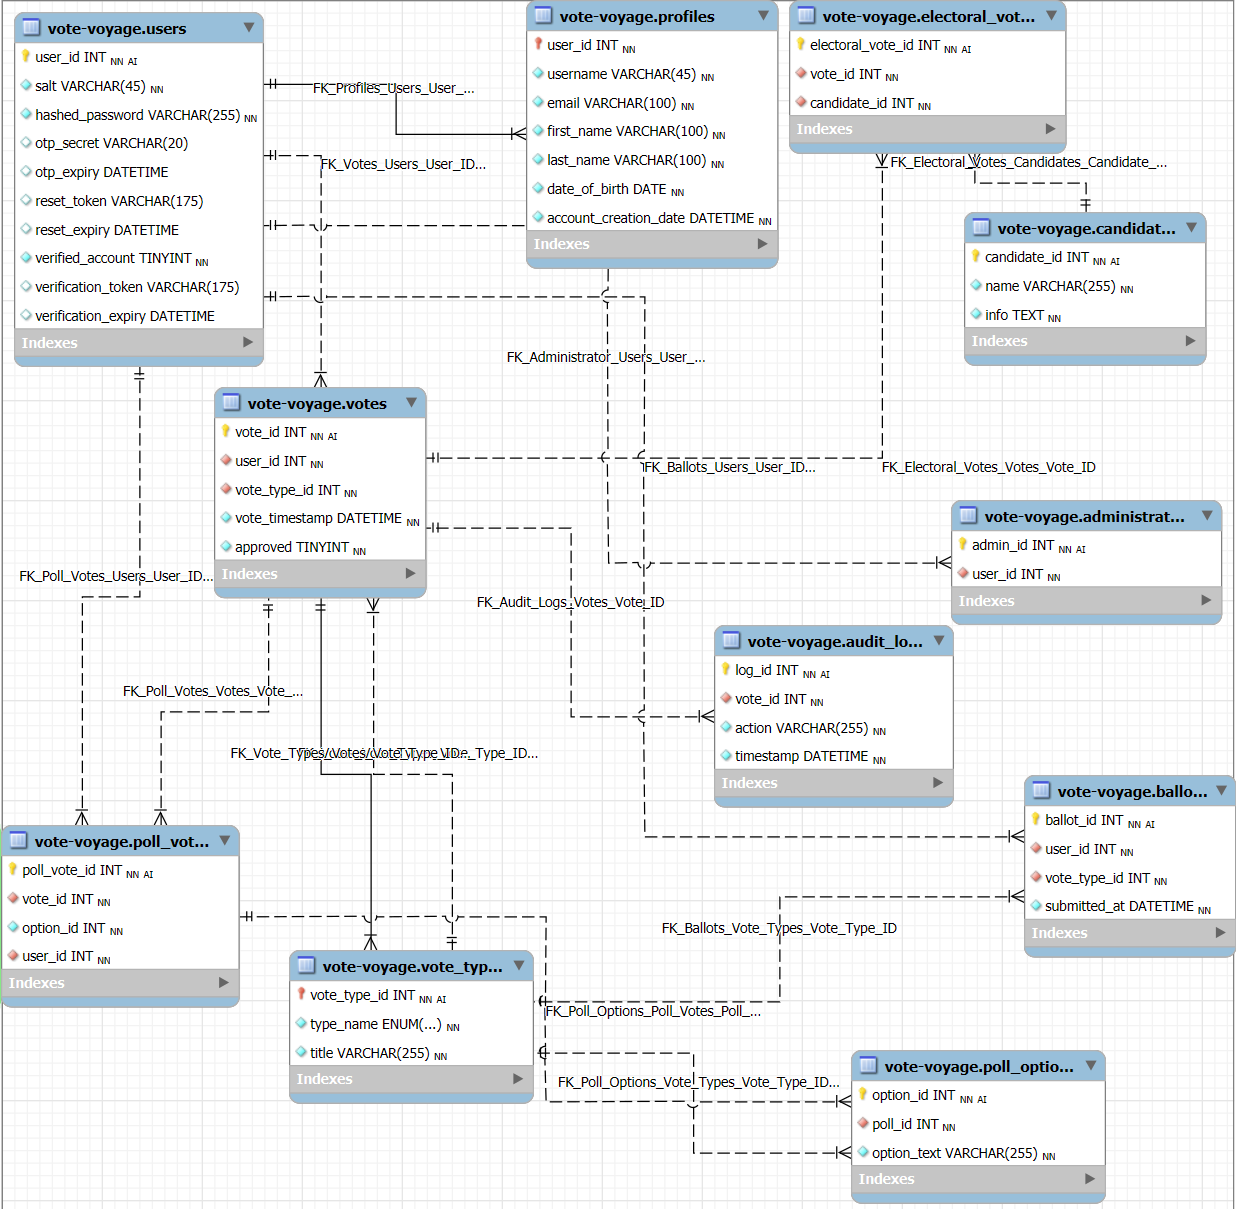
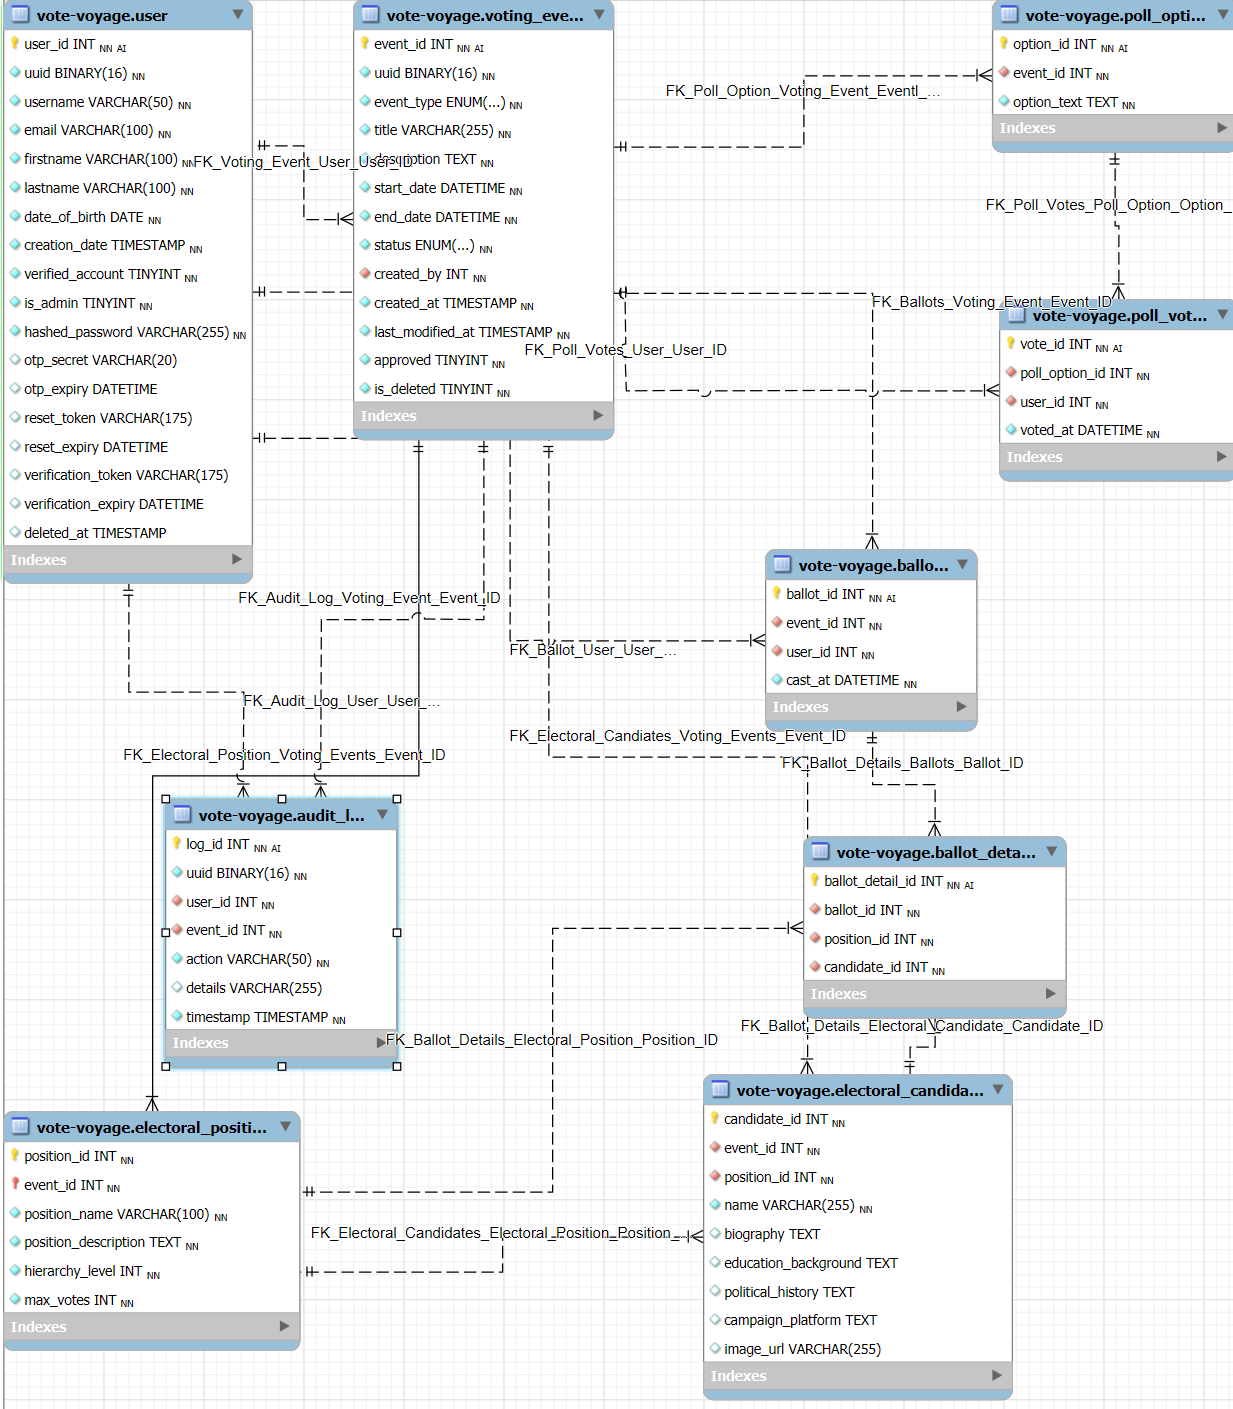
update database documentation to reflect table name changes and new structure

diff --git a/OnlineVotingDocu.md b/OnlineVotingDocu.md
@@ -218,9 +218,7 @@ The online voting system's architecture must be enough to handle high volumes of
 
 ### Database Tables
 
-**Poll Votes**
-
-**Users Table**
+**User Table**
 
 | Column Name             | Data Type      | Constraints                                 |
 | ----------------------- | -------------- | ------------------------------------------- |
@@ -311,21 +309,96 @@ The online voting system's architecture must be enough to handle high volumes of
 
 ---
 
-**Votes Table**
+**Ballots Table**
 
-| Column Name      | Data Type  | Constraints                                   |
-| ---------------- | ---------- | --------------------------------------------- |
-| `vote_id`        | `INT`      | `NOT NULL`, `AUTO_INCREMENT`, `PRIMARY KEY`   |
-| `user_id`        | `INT`      | `NOT NULL`, `KEY user_id`, `FOREIGN KEY`      |
-| `vote_type_id`   | `INT`      | `NOT NULL`, `KEY vote_type_id`, `FOREIGN KEY` |
-| `vote_timestamp` | `DATETIME` | `NOT NULL DEFAULT CURRENT_TIMESTAMP`          |
-| `approved`       | `tinyint`  | `NOT NULL DEFAULT '0'`                        |
+| Column Name | Data Type  | Constraints                                 |
+| ----------- | ---------- | ------------------------------------------- |
+| `ballot_id` | `INT`      | `NOT NULL`, `AUTO_INCREMENT`, `PRIMARY KEY` |
+| `event_id`  | `INT`      | `NOT NULL`, `KEY event_id`, `FOREIGN KEY`   |
+| `user_id`   | `INT`      | `NOT NULL`, `KEY user_id`, `FOREIGN KEY`    |
+| `cast_at`   | `DATETIME` | `NOT NULL DEFAULT CURRENT_TIMESTAMP`        |
 
-| **Indexes**                        | **Description**                      |                                                                                            |
-| ---------------------------------- | ------------------------------------ | ------------------------------------------------------------------------------------------ |
-| `PRIMARY`                          | (`vote_id`)                          |                                                                                            |
-| `FK_Votes_Users_User_ID`           | (`FK_Votes_Users_User_ID`)           | `FOREIGN KEY` REFERENCES `users` (`user_id`) ON DELETE CASCADE ON UPDATE CASCADE           |
-| `FK_Votes_Vote_Types_Vote_Type_ID` | (`FK_Votes_Vote_Types_Vote_Type_ID`) | `FOREIGN KEY` REFERENCES `vote_types` (`vote_type_id`) ON DELETE CASCADE ON UPDATE CASCADE |
+| **Indexes**                            | **Description** |                                                                                          |
+| -------------------------------------- | --------------- | ---------------------------------------------------------------------------------------- |
+| `PRIMARY`                              | (`ballot_id`)   |                                                                                          |
+| `FK_Ballots_Voting_Event_Event_ID_idx` | (`event_id`)    | `FOREIGN KEY` REFERENCES `voting_event` (`event_id`) ON DELETE CASCADE ON UPDATE CASCADE |
+| `FK_Ballot_User_User_ID_idx`           | (`user_id`)     | `FOREIGN KEY` REFERENCES `user` (`user_id`) ON DELETE CASCADE ON UPDATE CASCADE          |
+
+---
+
+**Electoral Position Table**
+
+| Column Name            | Data Type      | Constraints                              |
+| ---------------------- | -------------- | ---------------------------------------- |
+| `position_id`          | `INT`          | `NOT NULL`, `PRIMARY KEY`                |
+| `event_id`             | `INT`          | `NOT NULL`, `PRIMARY KEY`, `FOREIGN KEY` |
+| `position_name`        | `VARCHAR(100)` | `NOT NULL`, `UNIQUE`                     |
+| `position_description` | `TEXT`         | `NOT NULL`                               |
+| `hierarchy_level`      | `INT`          | `NOT NULL`                               |
+| `max_votes`            | `INT`          | `NOT NULL DEFAULT '1'`                   |
+
+| **Indexes**                                        | **Description**             |                                                                                          |
+| -------------------------------------------------- | --------------------------- | ---------------------------------------------------------------------------------------- |
+| `PRIMARY`                                          | (`position_id`, `event_id`) |                                                                                          |
+| `position_name_UNIQUE`                             | (`position_name`)           | `UNIQUE`                                                                                 |
+| `FK_Electoral_Position_Voting_Events_Event_ID_idx` | (`event_id`)                | `FOREIGN KEY` REFERENCES `voting_event` (`event_id`) ON DELETE CASCADE ON UPDATE CASCADE |
+
+---
+
+**Electoral Candidate Table**
+
+| Column Name            | Data Type      | Constraints               |
+| ---------------------- | -------------- | ------------------------- |
+| `candidate_id`         | `INT`          | `NOT NULL`, `PRIMARY KEY` |
+| `event_id`             | `INT`          | `NOT NULL`, `FOREIGN KEY` |
+| `position_id`          | `INT`          | `NOT NULL`, `FOREIGN KEY` |
+| `name`                 | `VARCHAR(255)` | `NOT NULL`                |
+| `biography`            | `TEXT`         |                           |
+| `education_background` | `TEXT`         |                           |
+| `political_history`    | `TEXT`         |                           |
+| `campaign_platform`    | `TEXT`         |                           |
+| `image_url`            | `VARCHAR(255)` | `DEFAULT NULL`            |
+
+| **Indexes**                                                  | **Description**  |                                                                                 |
+| ------------------------------------------------------------ | ---------------- | ------------------------------------------------------------------------------- |
+| `PRIMARY`                                                    | (`candidate_id`) |                                                                                 |
+| `FK_Electoral_Candiates_Voting_Events_Event_ID_idx`          | (`event_id`)     | `FOREIGN KEY` REFERENCES `voting_event` (`event_id`) ON UPDATE CASCADE          |
+| `FK_Electoral_Candidates_Electoral_Position_Position_ID_idx` | (`position_id`)  | `FOREIGN KEY` REFERENCES `electoral_position` (`position_id`) ON UPDATE CASCADE |
+
+---
+
+**Ballot Details Table**
+
+| Column Name        | Data Type | Constraints                                 |
+| ------------------ | --------- | ------------------------------------------- |
+| `ballot_detail_id` | `INT`     | `NOT NULL`, `AUTO_INCREMENT`, `PRIMARY KEY` |
+| `ballot_id`        | `INT`     | `NOT NULL`, `FOREIGN KEY`                   |
+| `position_id`      | `INT`     | `NOT NULL`, `FOREIGN KEY`                   |
+| `candidate_id`     | `INT`     | `NOT NULL`, `FOREIGN KEY`                   |
+
+| **Indexes**                                              | **Description**      |                                                                                                     |
+| -------------------------------------------------------- | -------------------- | --------------------------------------------------------------------------------------------------- |
+| `PRIMARY`                                                | (`ballot_detail_id`) |                                                                                                     |
+| `FK_Ballot_Details_Ballots_Ballot_ID_idx`                | (`ballot_id`)        | `FOREIGN KEY` REFERENCES `ballots` (`ballot_id`) ON DELETE CASCADE ON UPDATE CASCADE                |
+| `FK_Ballot_Details_Electoral_Position_Position_ID_idx`   | (`position_id`)      | `FOREIGN KEY` REFERENCES `electoral_position` (`position_id`) ON DELETE CASCADE ON UPDATE CASCADE   |
+| `FK_Ballot_Details_Electoral_Candidate_Candidate_ID_idx` | (`candidate_id`)     | `FOREIGN KEY` REFERENCES `electoral_candidate` (`candidate_id`) ON DELETE CASCADE ON UPDATE CASCADE |
+
+---
+
+**Poll Votes Table**
+
+| Column Name      | Data Type  | Constraints                                 |
+| ---------------- | ---------- | ------------------------------------------- |
+| `vote_id`        | `INT`      | `NOT NULL`, `AUTO_INCREMENT`, `PRIMARY KEY` |
+| `poll_option_id` | `INT`      | `NOT NULL`, `FOREIGN KEY`                   |
+| `user_id`        | `INT`      | `NOT NULL`, `FOREIGN KEY`                   |
+| `voted_at`       | `DATETIME` | `NOT NULL DEFAULT CURRENT_TIMESTAMP`        |
+
+| **Indexes**                                | **Description**    |                                                                                           |
+| ------------------------------------------ | ------------------ | ----------------------------------------------------------------------------------------- |
+| `PRIMARY`                                  | (`vote_id`)        |                                                                                           |
+| `FK_Poll_Votes_Poll_Options_Option_ID_idx` | (`poll_option_id`) | `FOREIGN KEY` REFERENCES `poll_options` (`option_id`) ON DELETE CASCADE ON UPDATE CASCADE |
+| `FK_Poll_Votes_Users_User_ID_idx`          | (`user_id`)        | `FOREIGN KEY` REFERENCES `users` (`user_id`) ON DELETE CASCADE ON UPDATE CASCADE          |
 
 ## ERD
 
